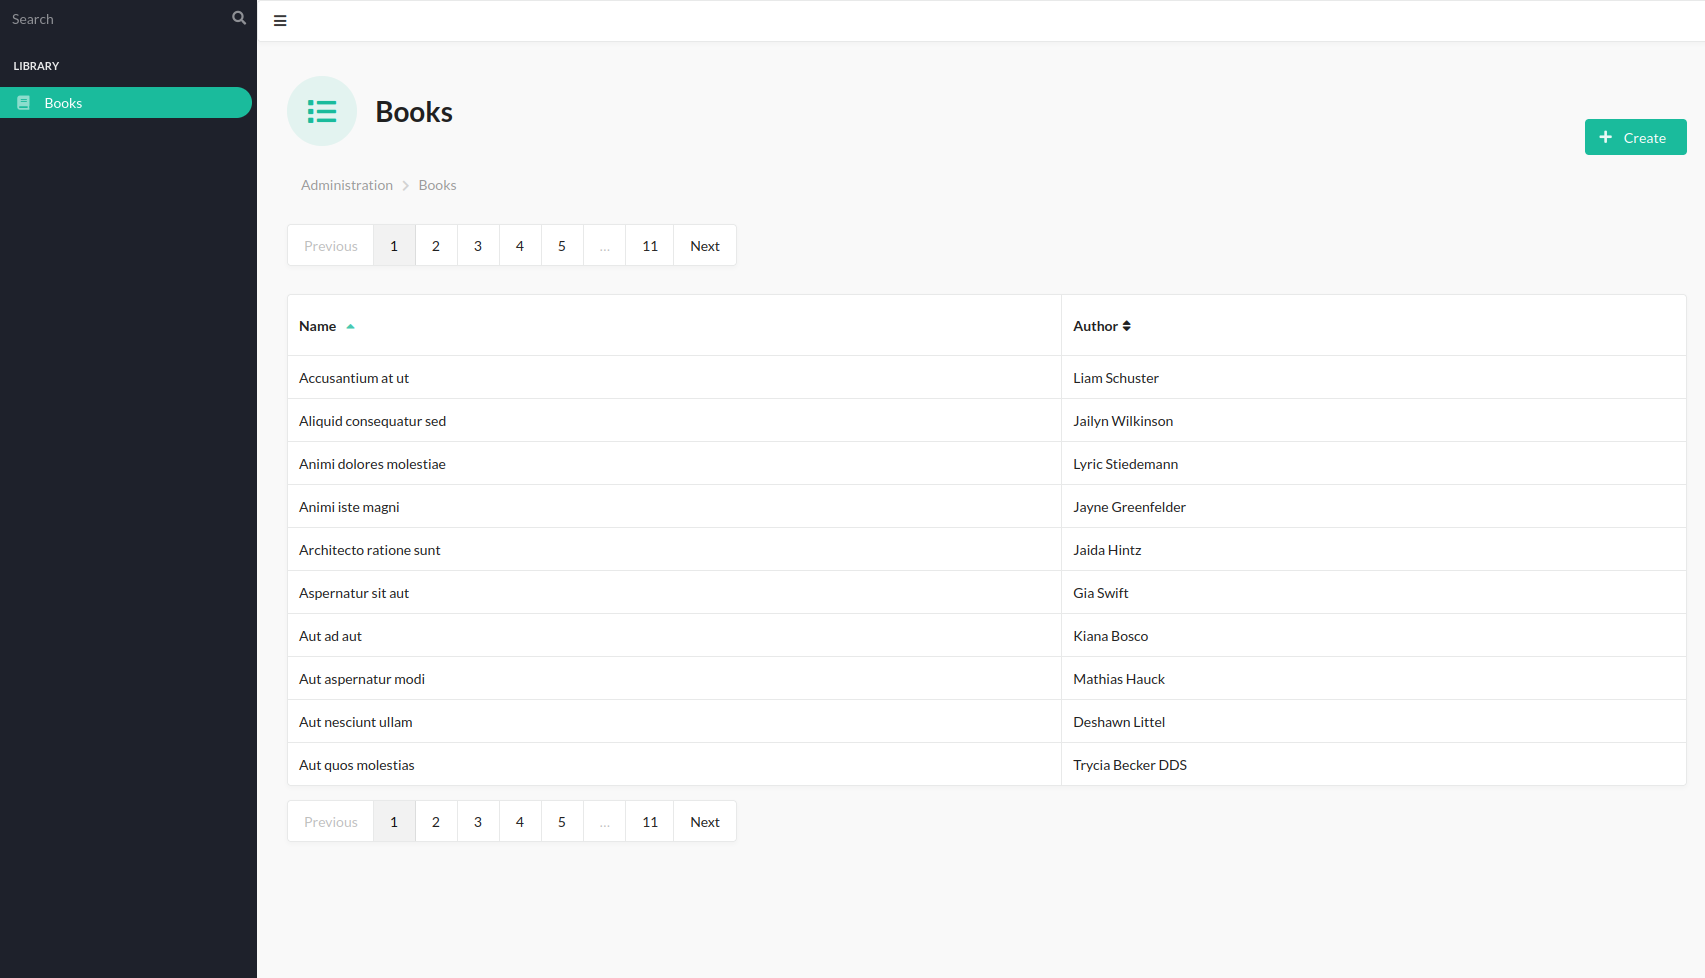
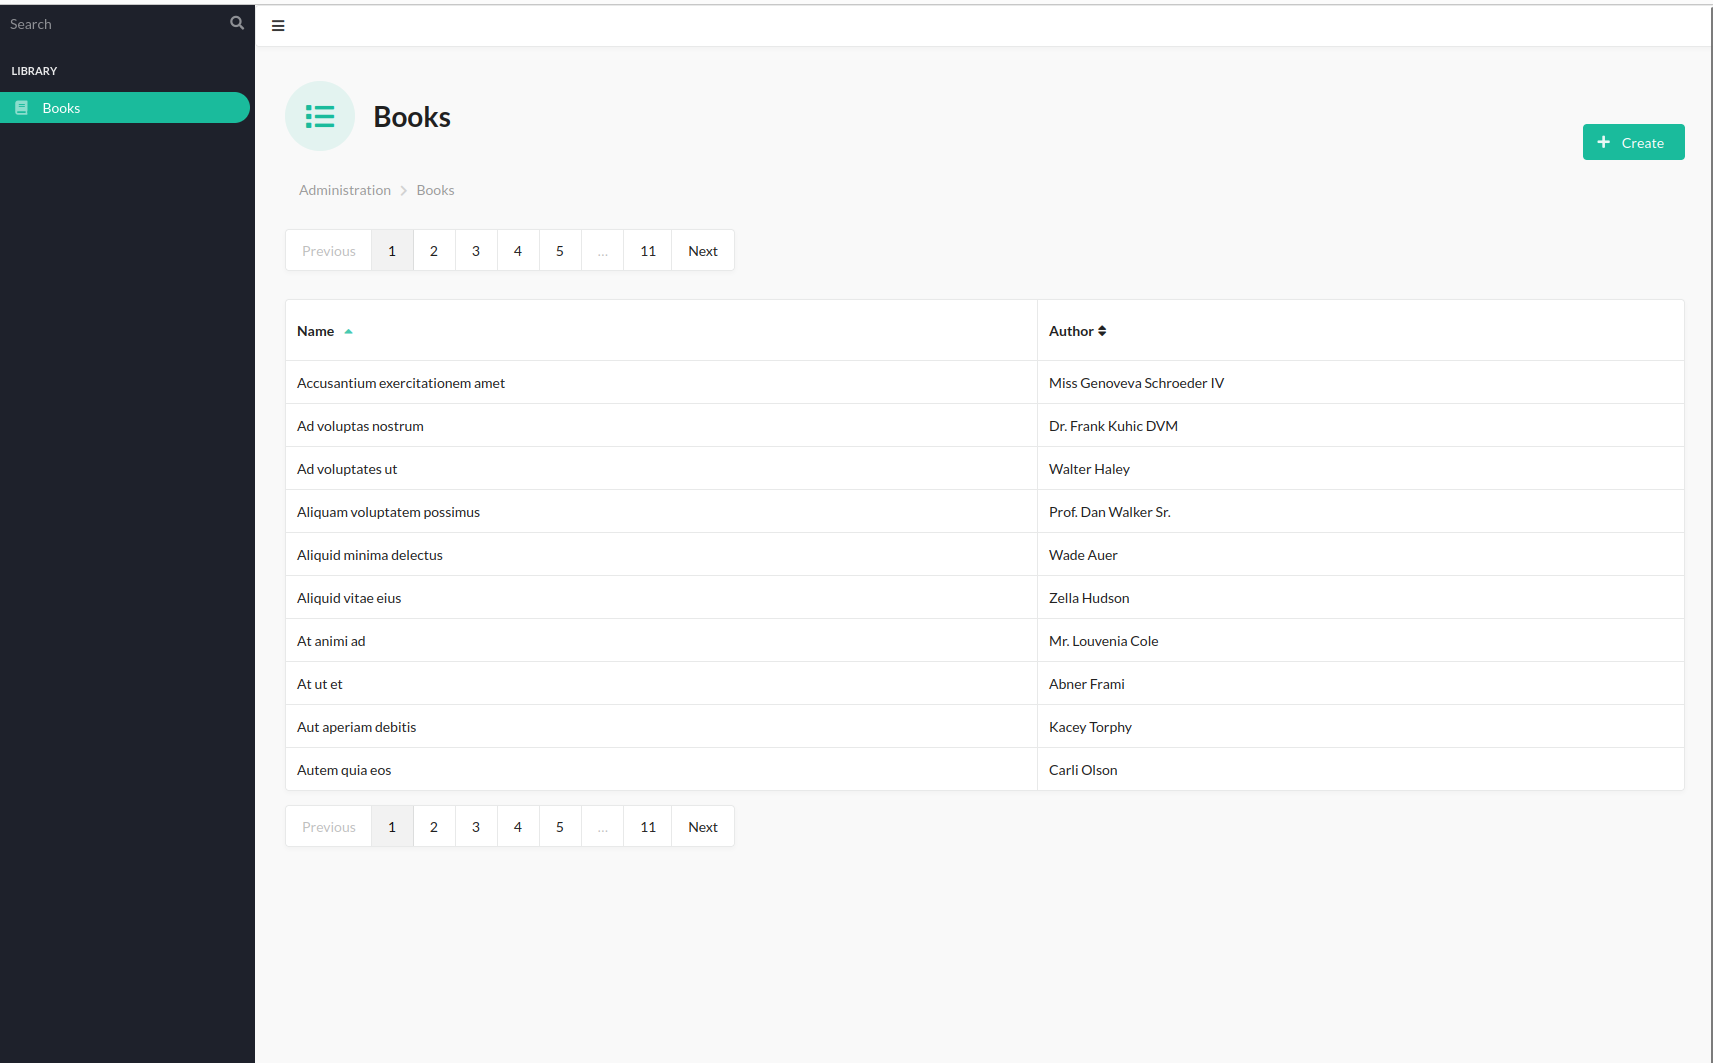
Improve all

diff --git a/pages/resource/09_bulk_update_operation.md b/pages/resource/09_bulk_update_operation.md
@@ -4,7 +4,7 @@
 
 We'll use `Bulk Update` operation which allows to update several items of your resource at the same time.
 
-```php {all|12|12,5|13|14|15|16|17}
+```php {all|12|12,5|13|14|15}
 namespace App\Entity;
 
 // [...]
@@ -17,8 +17,6 @@ use Sylius\Component\Resource\Model\ResourceInterface;
 #[Update]
 #[BulkDelete]
 #[BulkUpdate(
-    methods: ['PUT', 'PATCH'],
-    path: 'books/bulk_publish',
     shortName: 'bulk_publish',
     processor: PublishBookProcessor::class,
     validate: false,
@@ -50,7 +48,7 @@ It will configure this route for your `bulk_publish` operation.
 
 ---
 
-```php {all|12-24|12|15-21|16-18|20}
+```php {all|12-24|12|15-21|16-18}
 final class BookGrid extends AbstractGrid implements ResourceAwareGridInterface
 {
     // [...]
@@ -70,7 +68,6 @@ final class BookGrid extends AbstractGrid implements ResourceAwareGridInterface
                                 'route' => 'app_admin_book_bulk_publish',
                             ],
                             'class' => 'green',
-                            'transition' => 'publish',
                         ]),
                 )
             )

diff --git a/pages/resource/04_update_operation.md b/pages/resource/04_update_operation.md
@@ -89,3 +89,9 @@ layout: image
 image: /editing_book_03.png
 transition: fade
 ---
+
+---
+layout: image
+image: /editing_book_04.png
+transition: fade
+---

diff --git a/pages/resource/02_index_operation.md b/pages/resource/02_index_operation.md
@@ -105,5 +105,5 @@ class Book implements ResourceInterface
 
 ---
 layout: image
-image: /browsing_books.png
+image: /browsing_books_01.png
 ---

diff --git a/pages/02_akawaka.md b/pages/02_akawaka.md
@@ -3,3 +3,4 @@ layout: image-right
 image: /akawaka.png
 ---
 
+TODO Akawaka description
